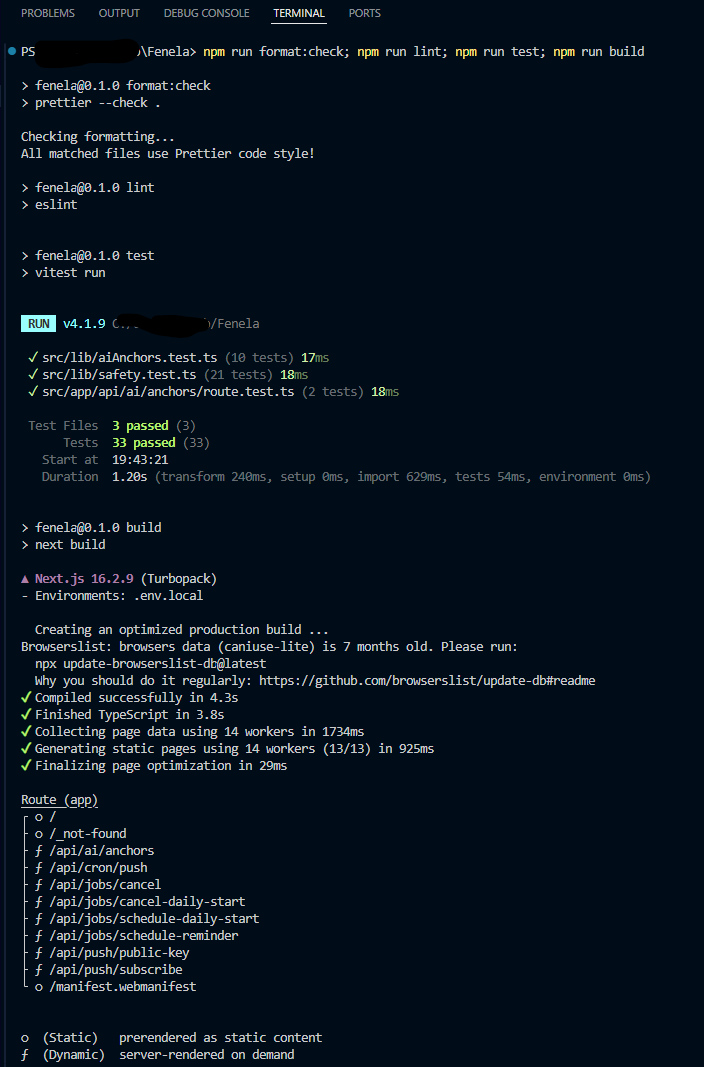
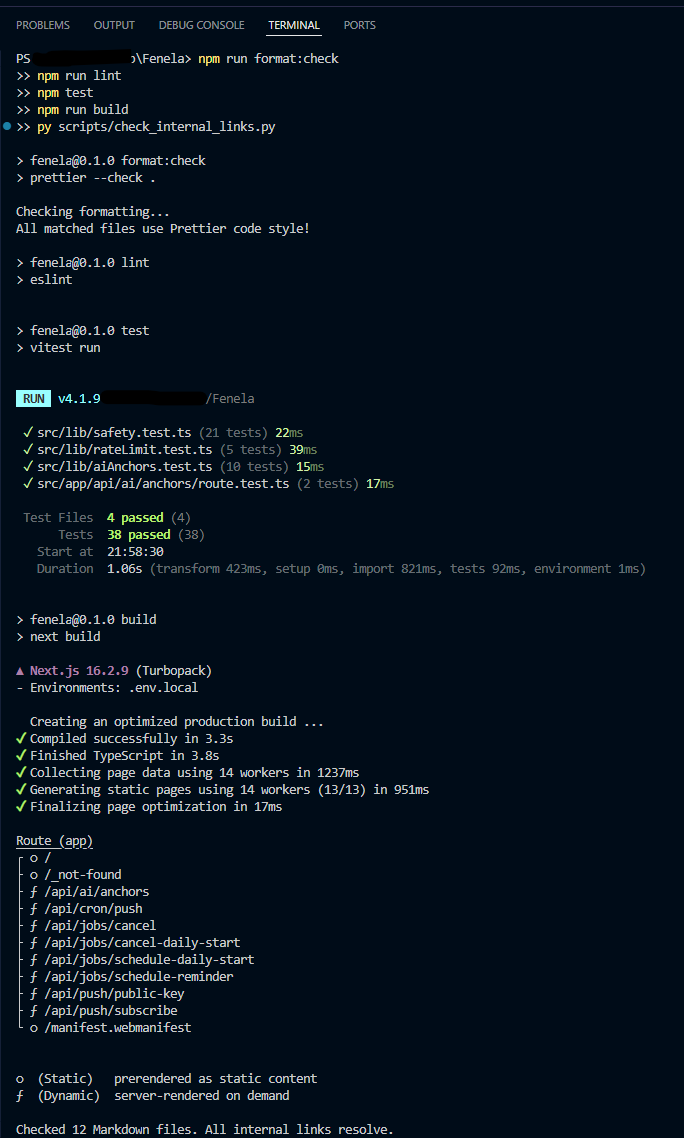
Update rate limiting documentation evidence

diff --git a/docs/technical/known-technical-notes.md b/docs/technical/known-technical-notes.md
@@ -231,6 +231,57 @@ The app does not provide:
 
 The deterministic app flow remains leading. AI is used only after basic validation and safety checks.
 
+## Rate limiting
+
+`/api/ai/anchors`, `/api/push/subscribe`, `/api/jobs/schedule-reminder` and `/api/jobs/schedule-daily-start` are publicly callable routes with no login. `/api/ai/anchors` uses OpenAI credits on Fenéla's own account per call; the other three write to KV storage on every call. Without a limit, a single device or script could drive unbounded OpenAI cost or unbounded KV growth.
+
+The rate limiter lives in:
+
+```text
+src/lib/rateLimit.ts
+```
+
+It reuses the existing KV store (no new dependency): a fixed-window counter per key, incremented on each request, with a TTL set on the first increment of that window. Limits are tuned to allow normal use while bounding cost and storage growth; exact thresholds are intentionally not documented here.
+
+Behavior when a limit is reached:
+
+```text
+/api/ai/anchors returns HTTP 200 with the existing deterministic/fallback
+response shape, so the frontend needs no special handling and the user
+sees Fenéla fall back to anchors without AI, not an error.
+
+The push and job routes return HTTP 429, which the existing client code
+already treats as a soft failure (reminders stay optional; nothing crashes).
+```
+
+Known limitation:
+
+```text
+This mitigates unintentional repeated use and low-effort abuse. It is not
+authentication and should not be treated as a hard guarantee against a
+deliberate, determined actor.
+
+The actual backstop against runaway OpenAI cost is an account-level
+spending cap set in the OpenAI dashboard, outside this repository.
+```
+
+Reason:
+
+```text
+Fail-open by design: if KV is not configured, or the rate-limit check
+itself errors, the request is allowed through. A rate limiter should not
+become the reason a core flow breaks.
+```
+
+Status:
+
+```text
+Classification: MVP safety/cost guardrail
+MVP blocker: no
+Repository action: implemented in src/lib/rateLimit.ts, tested in
+src/lib/rateLimit.test.ts, documented here
+```
+
 ## AI and ethical-use guardrails
 
 Fenéla includes basic validation and safety checks for AI-assisted and manually edited anchors.
@@ -374,7 +425,7 @@ Latest validated result during public-readiness cleanup:
 ```text
 npm run format:check passed
 npm run lint passed
-npm run test passed — 33 tests
+npm run test passed — 38 tests
 npm run build passed
 py scripts/check_internal_links.py passed
 ```
@@ -472,7 +523,7 @@ They document technical context that is useful for reviewers and maintainers:
 - cross-device runtime validation;
 - deployment limitations;
 - upstream dependency warnings;
-- safety and guardrail boundaries;
+- safety, guardrail and rate-limiting boundaries;
 - known browser/PWA testing limitations;
 - dependency audit status;
 - CI validation;

diff --git a/README.md b/README.md
@@ -154,15 +154,18 @@ Current checks include:
 - production build validation;
 - internal Markdown link checking.
 
-The test suite currently includes 33 tests across:
+The test suite currently includes 38 tests across:
 
 - safety and ethical-use validation;
 - AI response parsing;
 - AI anchor validation;
 - AI fallback behavior;
-- API route validation.
+- API route validation;
+- public route rate limiting.
 
 The CI workflow in `.github/workflows/ci.yml` runs formatting, linting, tests and production build checks on push and pull requests.
+
+Fenéla also includes server-side rate limiting on public AI and reminder routes to reduce cost and storage abuse.
 
 A recent local validation run is included as runtime evidence:
 
@@ -299,6 +302,7 @@ Responsibilities are separated as follows:
 - AI parsing, validation and fallback logic live in testable library code;
 - push subscriptions are handled by push routes;
 - reminder jobs are handled by job routes and the cron-triggered push worker;
+- device- and IP-based rate limiting helps reduce unbounded cost and storage growth on the AI, subscription and scheduling routes;
 - real secrets live outside the repository.
 
 This keeps the codebase small enough to review and maintain.

diff --git a/docs/product/known-limitations.md b/docs/product/known-limitations.md
@@ -52,6 +52,14 @@ Fenéla MVP1 does not include login or account sync. Screening answers, anchor p
 
 A future account model should be privacy-focused and optional. Push subscriptions would still remain device-specific.
 
+## Rate limiting is not authentication
+
+Fenéla is intentionally accountless.
+
+Public routes use server-side rate limiting to reduce repeated requests, storage abuse and unexpected AI usage. The limiter uses device-based signals and, for selected write routes, IP-based limits.
+
+This is useful for accidental repeated use and low-effort abuse. It is not a complete protection against deliberate misuse. A stronger solution would require authentication or a dedicated abuse-prevention layer, which is outside the MVP scope.
+
 ## Safety filter
 
 Fenéla MVP1 includes a basic pattern-based safety filter.

diff --git a/docs/technical/local-setup.md b/docs/technical/local-setup.md
@@ -197,8 +197,8 @@ npm run test
 Expected result:
 
 ```text
-Test Files  3 passed
-Tests       33 passed
+Test Files  4 passed
+Tests       38 passed
 ```
 
 The current test suite covers:
@@ -207,7 +207,8 @@ The current test suite covers:
 - AI response parsing;
 - AI anchor validation;
 - AI fallback behavior;
-- API route validation.
+- API route validation;
+- public route rate limiting.
 
 The AI route handler should stay thin. Parsing, validation and fallback behavior live in testable library code:
 
